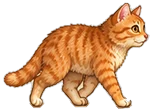
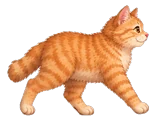
Sunny & Daisy: Neeff's redrawn eight-frame walks (cut from white)

diff --git a/members/app.js b/members/app.js
@@ -5807,7 +5807,7 @@ function openMercury() {
 // left flips them. Positions are % of the square room, feet at (x, y).
 const CAT_ART = 'assets/room/cats/';
 const CAT_WALK_W = 153; // px width of a walk frame; poses size relative to it
-const CAT_FRAMES = 8, CAT_FRAME_MS = 105; // Neeff's eight-step walk cycle
+const CAT_FRAMES = { sunny: 8, daisy: 8 }, CAT_FRAME_MS = 105; // frames in each cat's walk cycle
 const CAT_POSES = {
   sunny: { stand: 79, stretch: 99, meow: 83, happy: 87 },
   daisy: { stand: 86, stretch: 108, meow: 89, happy: 87 },
@@ -5817,7 +5817,7 @@ function mountCats(scene, theme) {
   if (theme !== 'office') return;
   const still = window.matchMedia('(prefers-reduced-motion: reduce)').matches;
   ['sunny', 'daisy'].forEach(name => {
-    for (let i = 1; i <= CAT_FRAMES; i++) new Image().src = `${CAT_ART}${name}_walk${i}.webp`;
+    for (let i = 1; i <= CAT_FRAMES[name]; i++) new Image().src = `${CAT_ART}${name}_walk${i}.webp`;
     const el = document.createElement('button');
     el.className = 'room-cat';
     el.setAttribute('aria-label', `Pet ${name === 'sunny' ? 'Sunny' : 'Daisy'}`);
@@ -5860,7 +5860,7 @@ function mountCats(scene, theme) {
       frameTimer = setInterval(() => {
         if (!el.isConnected) return stop();
         cat.x += dx; cat.y += dy;
-        show(`walk${(f++ % CAT_FRAMES) + 1}`, CAT_WALK_W, cat.dir < 0);
+        show(`walk${(f++ % CAT_FRAMES[name]) + 1}`, CAT_WALK_W, cat.dir < 0);
         if (++i >= steps) { clearInterval(frameTimer); pose('stand', rnd(800, 1800), idle); }
       }, CAT_FRAME_MS);
     };
